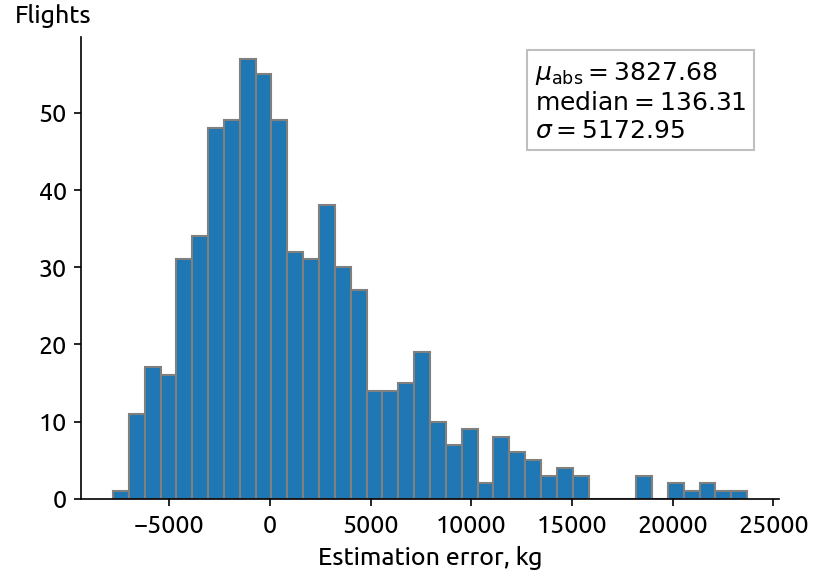
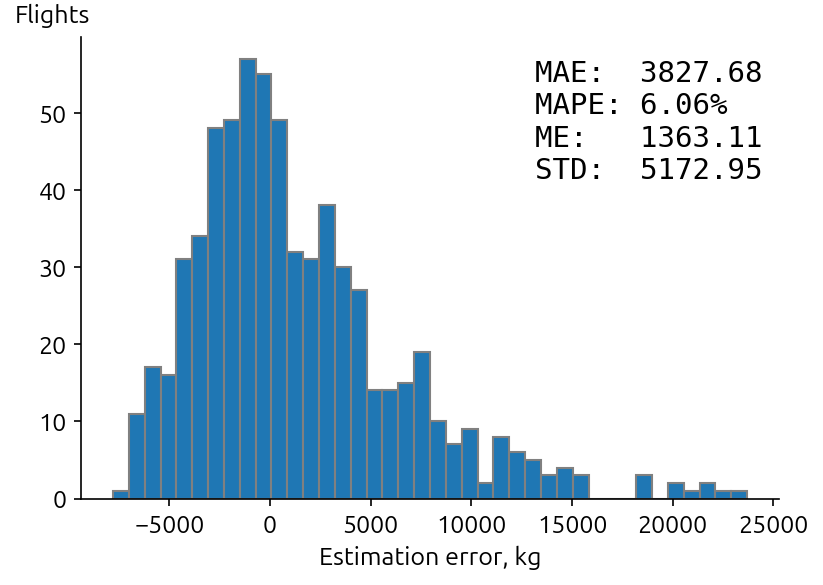
update figures

diff --git a/paper_plots.py b/paper_plots.py
@@ -52,7 +52,7 @@ ax.get_yaxis().set_major_formatter(
 )
 
 plt.tight_layout()
-plt.savefig("figures/ISA_exp.png", bbox_inches="tight", pad_inches=0.1, dpi=200)
+plt.savefig("figures/ISA_exp.png", bbox_inches="tight", dpi=150)
 
 plt.show()
 
@@ -111,7 +111,7 @@ ax.get_yaxis().set_major_formatter(
     matplotlib.ticker.FuncFormatter(lambda x, p: format(int(x), ","))
 )
 
-plt.savefig("figures/alt_vs_dist.png", bbox_inches="tight", pad_inches=0.1, dpi=150)
+plt.savefig("figures/alt_vs_dist.png", bbox_inches="tight", dpi=150)
 
 plt.show()
 # %%
@@ -165,7 +165,7 @@ ax.get_yaxis().set_major_formatter(
     matplotlib.ticker.FuncFormatter(lambda x, p: format(int(x), ","))
 )
 
-plt.savefig("figures/alt_vs_mass.png", bbox_inches="tight", pad_inches=0.1, dpi=150)
+plt.savefig("figures/alt_vs_mass.png", bbox_inches="tight", dpi=150)
 
 plt.show()
 
@@ -225,6 +225,7 @@ norm = Normalize(
         c_isa_max.max(),
     ),
 )
+
 # %%
 plt.figure(figsize=(6, 4))
 ax = plt.gca()
@@ -246,17 +247,11 @@ ax.grid(True)
 
 ax.yaxis.set_label_coords(-0.15, 1.02)
 plt.tight_layout()
-plt.savefig(
-    "figures/lookup.png",
-    bbox_inches="tight",
-    pad_inches=0.1,
-    dpi=150,
-)
-
+plt.savefig("figures/lookup.png", bbox_inches="tight", dpi=150)
 
 plt.show()
-# %%
 
+# %%
 plt.figure(figsize=(6, 4))
 ax = plt.gca()
 
@@ -276,14 +271,10 @@ ax.get_yaxis().set_major_formatter(
 ax.grid(True)
 ax.yaxis.set_label_coords(-0.15, 1.02)
 plt.tight_layout()
-plt.savefig(
-    "figures/opensky.png",
-    bbox_inches="tight",
-    pad_inches=0.1,
-    dpi=150,
-)
-
+plt.savefig("figures/opensky.png", bbox_inches="tight", dpi=150)
 plt.show()
+
+
 # %%
 plt.figure(figsize=(6, 4))
 ax = plt.gca()
@@ -317,12 +308,7 @@ ax.grid(True)
 
 ax.yaxis.set_label_coords(-0.15, 1.02)
 plt.tight_layout()
-plt.savefig(
-    "figures/sample_real_in_lookup.png",
-    bbox_inches="tight",
-    pad_inches=0.1,
-    dpi=150,
-)
+plt.savefig("figures/sample_real_in_lookup.png", bbox_inches="tight", dpi=150)
 plt.show()
 
 # %%
@@ -380,22 +366,17 @@ ax.get_yaxis().set_major_formatter(
 )
 
 plt.tight_layout()
-plt.savefig(
-    f"figures/sample_real_opt_plots_ac1-571.png",
-    bbox_inches="tight",
-    pad_inches=0.1,
-    dpi=150,
-)
+plt.savefig(f"figures/sample_real_opt_plots_ac1-571.png", bbox_inches="tight", dpi=150)
 plt.show()
 
 # %%
-fig = plt.figure(figsize=(11, 4))
-gs = matplotlib.gridspec.GridSpec(4, 90)
+fig, (ax1, ax2) = plt.subplots(2, 1, figsize=(6, 8))
+# gs = matplotlib.gridspec.GridSpec(4, 90)
 
 cmap = plt.get_cmap("viridis").reversed()
 sm = ScalarMappable(norm=norm, cmap=cmap)
-ax1 = fig.add_subplot(gs[0:4, 0:37])
-ax2 = fig.add_subplot(gs[0:4, 47:90])
+# ax1 = fig.add_subplot(gs[0:4, 0:37])
+# ax2 = fig.add_subplot(gs[0:4, 47:90])
 
 ax1.scatter(x_real, y_real, c=sm.to_rgba(c_real), s=35)
 ax2.scatter(x_pred, y_pred, c=sm.to_rgba(c_pred), s=35)
@@ -409,40 +390,33 @@ for ax in [ax1, ax2]:
     ax.get_yaxis().set_major_formatter(
         matplotlib.ticker.FuncFormatter(lambda x, p: format(int(x), ","))
     )
+    cbar = plt.colorbar(sm, ax=ax)
+    ax.text(3500, 39700, "TOW, tons")
 
 ax1.set_title("Real flights", fontsize=12)
 ax2.set_title("Estimation using lookup tables", fontsize=12)
-
-
-cbar = plt.colorbar(
-    sm,
-    ax=ax2,
-)
-ax2.text(3500, 39700, "TOW, tons")
-
-plt.savefig(
-    "figures/real_vs_opt.png",
-    bbox_inches="tight",
-    pad_inches=0.1,
-    dpi=150,
-)
 plt.tight_layout()
+plt.savefig("figures/real_vs_opt.png", bbox_inches="tight", dpi=150)
 plt.show()
+
 # %%
 fig = plt.figure(figsize=(6, 4))
 ax = fig.add_subplot()
 ax.hist(dataset_real.error, bins=40, color="tab:blue", edgecolor="gray")
-mu1 = dataset_real.error.abs().mean()
-median1 = dataset_real.error.median()
-sigma1 = dataset_real.error.std()
-props = dict(boxstyle="square", facecolor="white", alpha=0.5, edgecolor="gray")
-textstr1 = "\n".join(
-    (
-        r"$\mu_\mathrm{abs}=%.2f$" % (mu1,),
-        r"$\mathrm{median}=%.2f$" % (median1,),
-        r"$\sigma=%.2f$" % (sigma1,),
-    )
-)
+
+me = dataset_real.error.mean()
+mape = dataset_real.error_percent.mean()
+mae = dataset_real.error.abs().mean()
+median = dataset_real.error.median()
+std = dataset_real.error.std()
+
+textstr1 = f"""\
+MAE:  {mae:.2f}
+MAPE: {mape:.2f}%
+ME:   {me:.2f}
+STD:  {std:.2f}\
+"""
+
 ax.set_xlabel("Estimation error, kg")
 ax.set_ylabel("Flights", rotation=0, ha="left")
 ax.yaxis.set_label_coords(-0.095, 1.02)
@@ -457,17 +431,11 @@ ax.text(
     0.95,
     textstr1,
     transform=ax.transAxes,
-    fontsize=12,
+    fontsize=14,
+    fontfamily="monospace",
     verticalalignment="top",
-    bbox=props,
 )
-# ax.grid(True)
-plt.savefig(
-    "figures/estimation_err_hist.png",
-    bbox_inches="tight",
-    pad_inches=0.1,
-    dpi=200,
-)
+plt.savefig("figures/estimation_err_hist.png", bbox_inches="tight", dpi=150)
 plt.show()
 
 # %%
@@ -527,12 +495,7 @@ ax.get_yaxis().set_major_formatter(
 ax.grid(True)
 ax.yaxis.set_label_coords(-0.15, 1.02)
 plt.tight_layout()
-plt.savefig(
-    "figures/lookup_isa.png",
-    bbox_inches="tight",
-    pad_inches=0.1,
-    dpi=150,
-)
+plt.savefig("figures/lookup_isa.png", bbox_inches="tight", dpi=150)
 
 plt.show()
 
@@ -557,12 +520,7 @@ ax.grid(True)
 ax.yaxis.set_label_coords(-0.15, 1.02)
 
 plt.tight_layout()
-plt.savefig(
-    "figures/lookup_max_cruise.png",
-    bbox_inches="tight",
-    pad_inches=0.1,
-    dpi=150,
-)
+plt.savefig("figures/lookup_max_cruise.png", bbox_inches="tight", dpi=150)
 plt.show()
 
 # %%
@@ -599,20 +557,25 @@ df_testing = df_testing.assign(error_percent=lambda x: abs(x.error / x.test) * 1
 df_three_feat = df_three_feat.assign(
     error_percent=lambda x: abs(x.error / x.takeoff_mass) * 100
 )
+
 ###############
 plt.figure(figsize=(6, 4))
 ax = plt.gca()
 ax.hist(df_three_feat.error, bins=40, edgecolor="gray")
-mu1 = df_three_feat.error.abs().mean()
-median1 = df_three_feat.error.median()
-sigma1 = df_three_feat.error.std()
-textstr1 = "\n".join(
-    (
-        r"$\mu_\mathrm{abs}=%.2f$" % (mu1,),
-        r"$\mathrm{median}=%.2f$" % (median1,),
-        r"$\sigma=%.2f$" % (sigma1,),
-    )
-)
+
+me = df_three_feat.error.mean()
+mape = df_three_feat.error_percent.mean()
+mae = df_three_feat.error.abs().mean()
+median = df_three_feat.error.median()
+std = df_three_feat.error.std()
+
+textstr1 = f"""\
+MAE:  {mae:.2f}
+MAPE: {mape:.2f}%
+ME:   {me:.2f}
+STD:  {std:.2f}\
+"""
+
 ax.set_ylabel("Flights", rotation=0, ha="left")
 ax.yaxis.set_label_coords(-0.095, 1.02)
 ax.set_xlabel("Estimation error, kg")
@@ -623,17 +586,12 @@ ax.text(
     0.65,
     0.95,
     textstr1,
+    fontsize=14,
+    fontfamily="monospace",
     transform=ax.transAxes,
     verticalalignment="top",
-    bbox=props,
 )
-# ax.grid(True)
-plt.savefig(
-    "figures/three_feat_estimation_err_hist.png",
-    bbox_inches="tight",
-    pad_inches=0.1,
-    dpi=150,
-)
+plt.savefig("figures/three_feat_estimation_err_hist.png", bbox_inches="tight", dpi=150)
 plt.show()
 
 # %% three feat table
@@ -743,7 +701,7 @@ ax.spines["right"].set_visible(False)
 ax.spines["top"].set_visible(False)
 ax.yaxis.set_label_coords(-0.15, 1.02)
 plt.tight_layout()
-plt.savefig("figures/temperatures.png", bbox_inches="tight", pad_inches=0.1, dpi=200)
+plt.savefig("figures/temperatures.png", bbox_inches="tight", dpi=150)
 
 plt.show()
 
